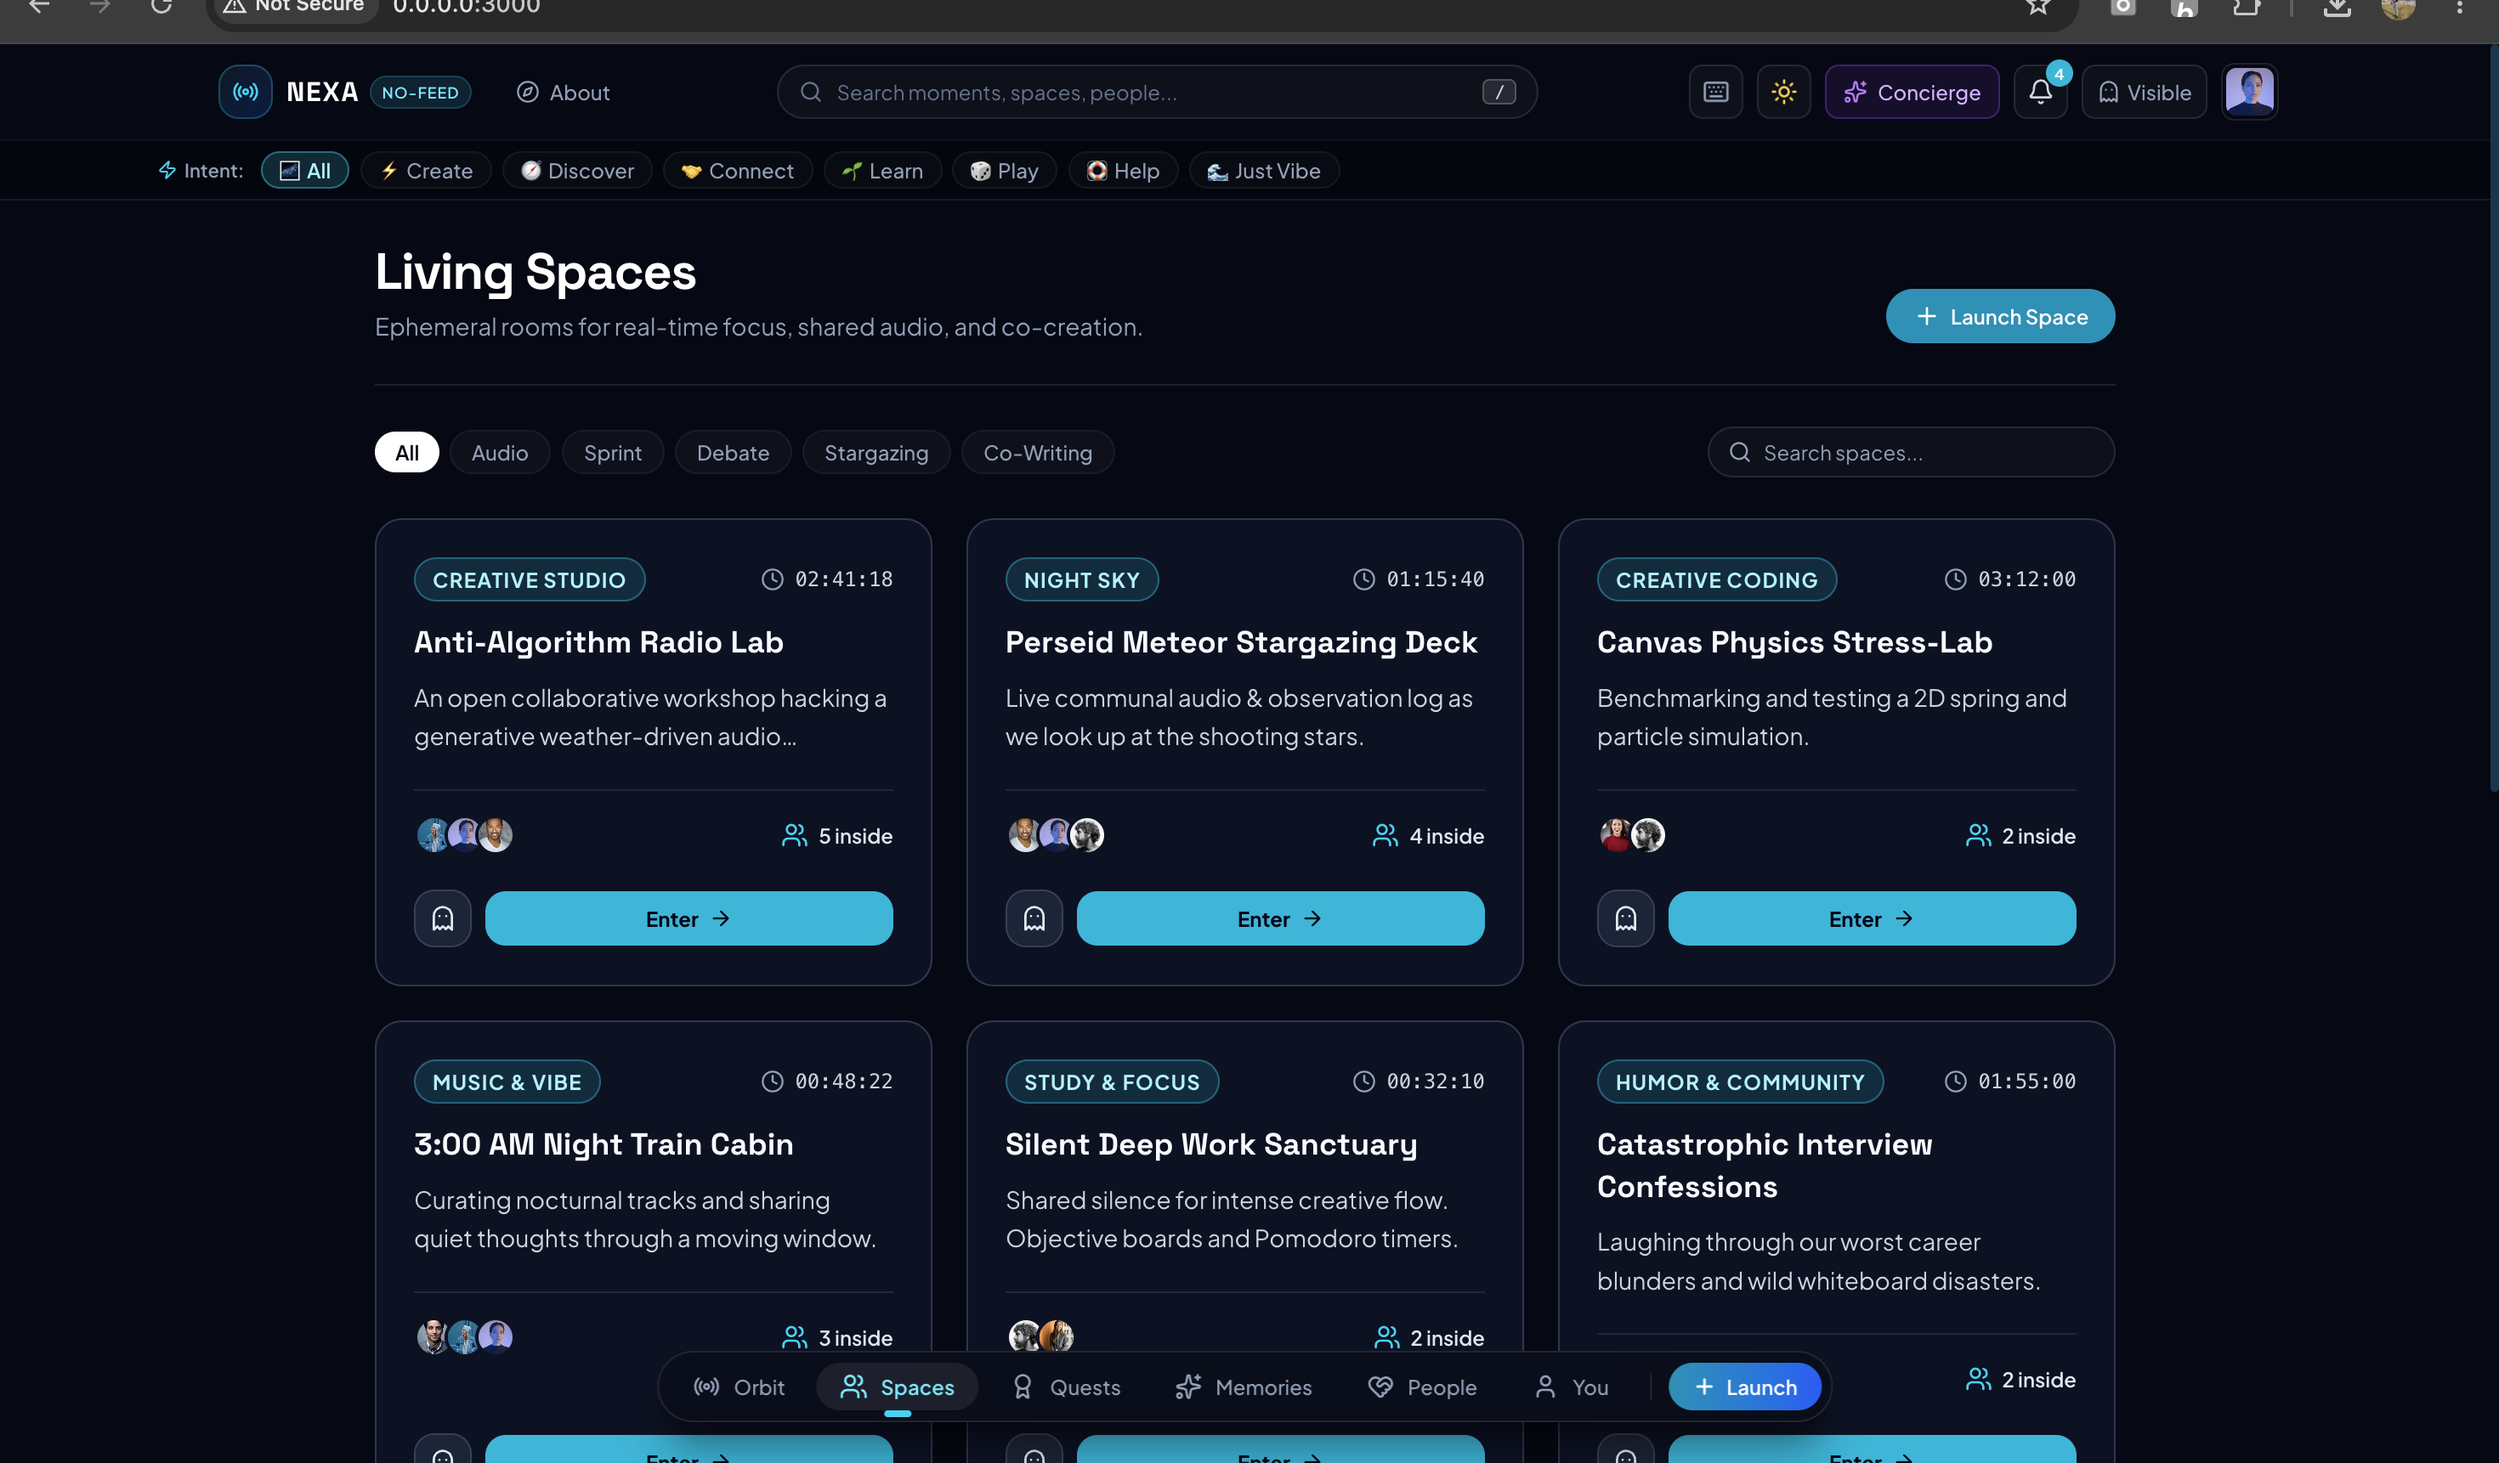
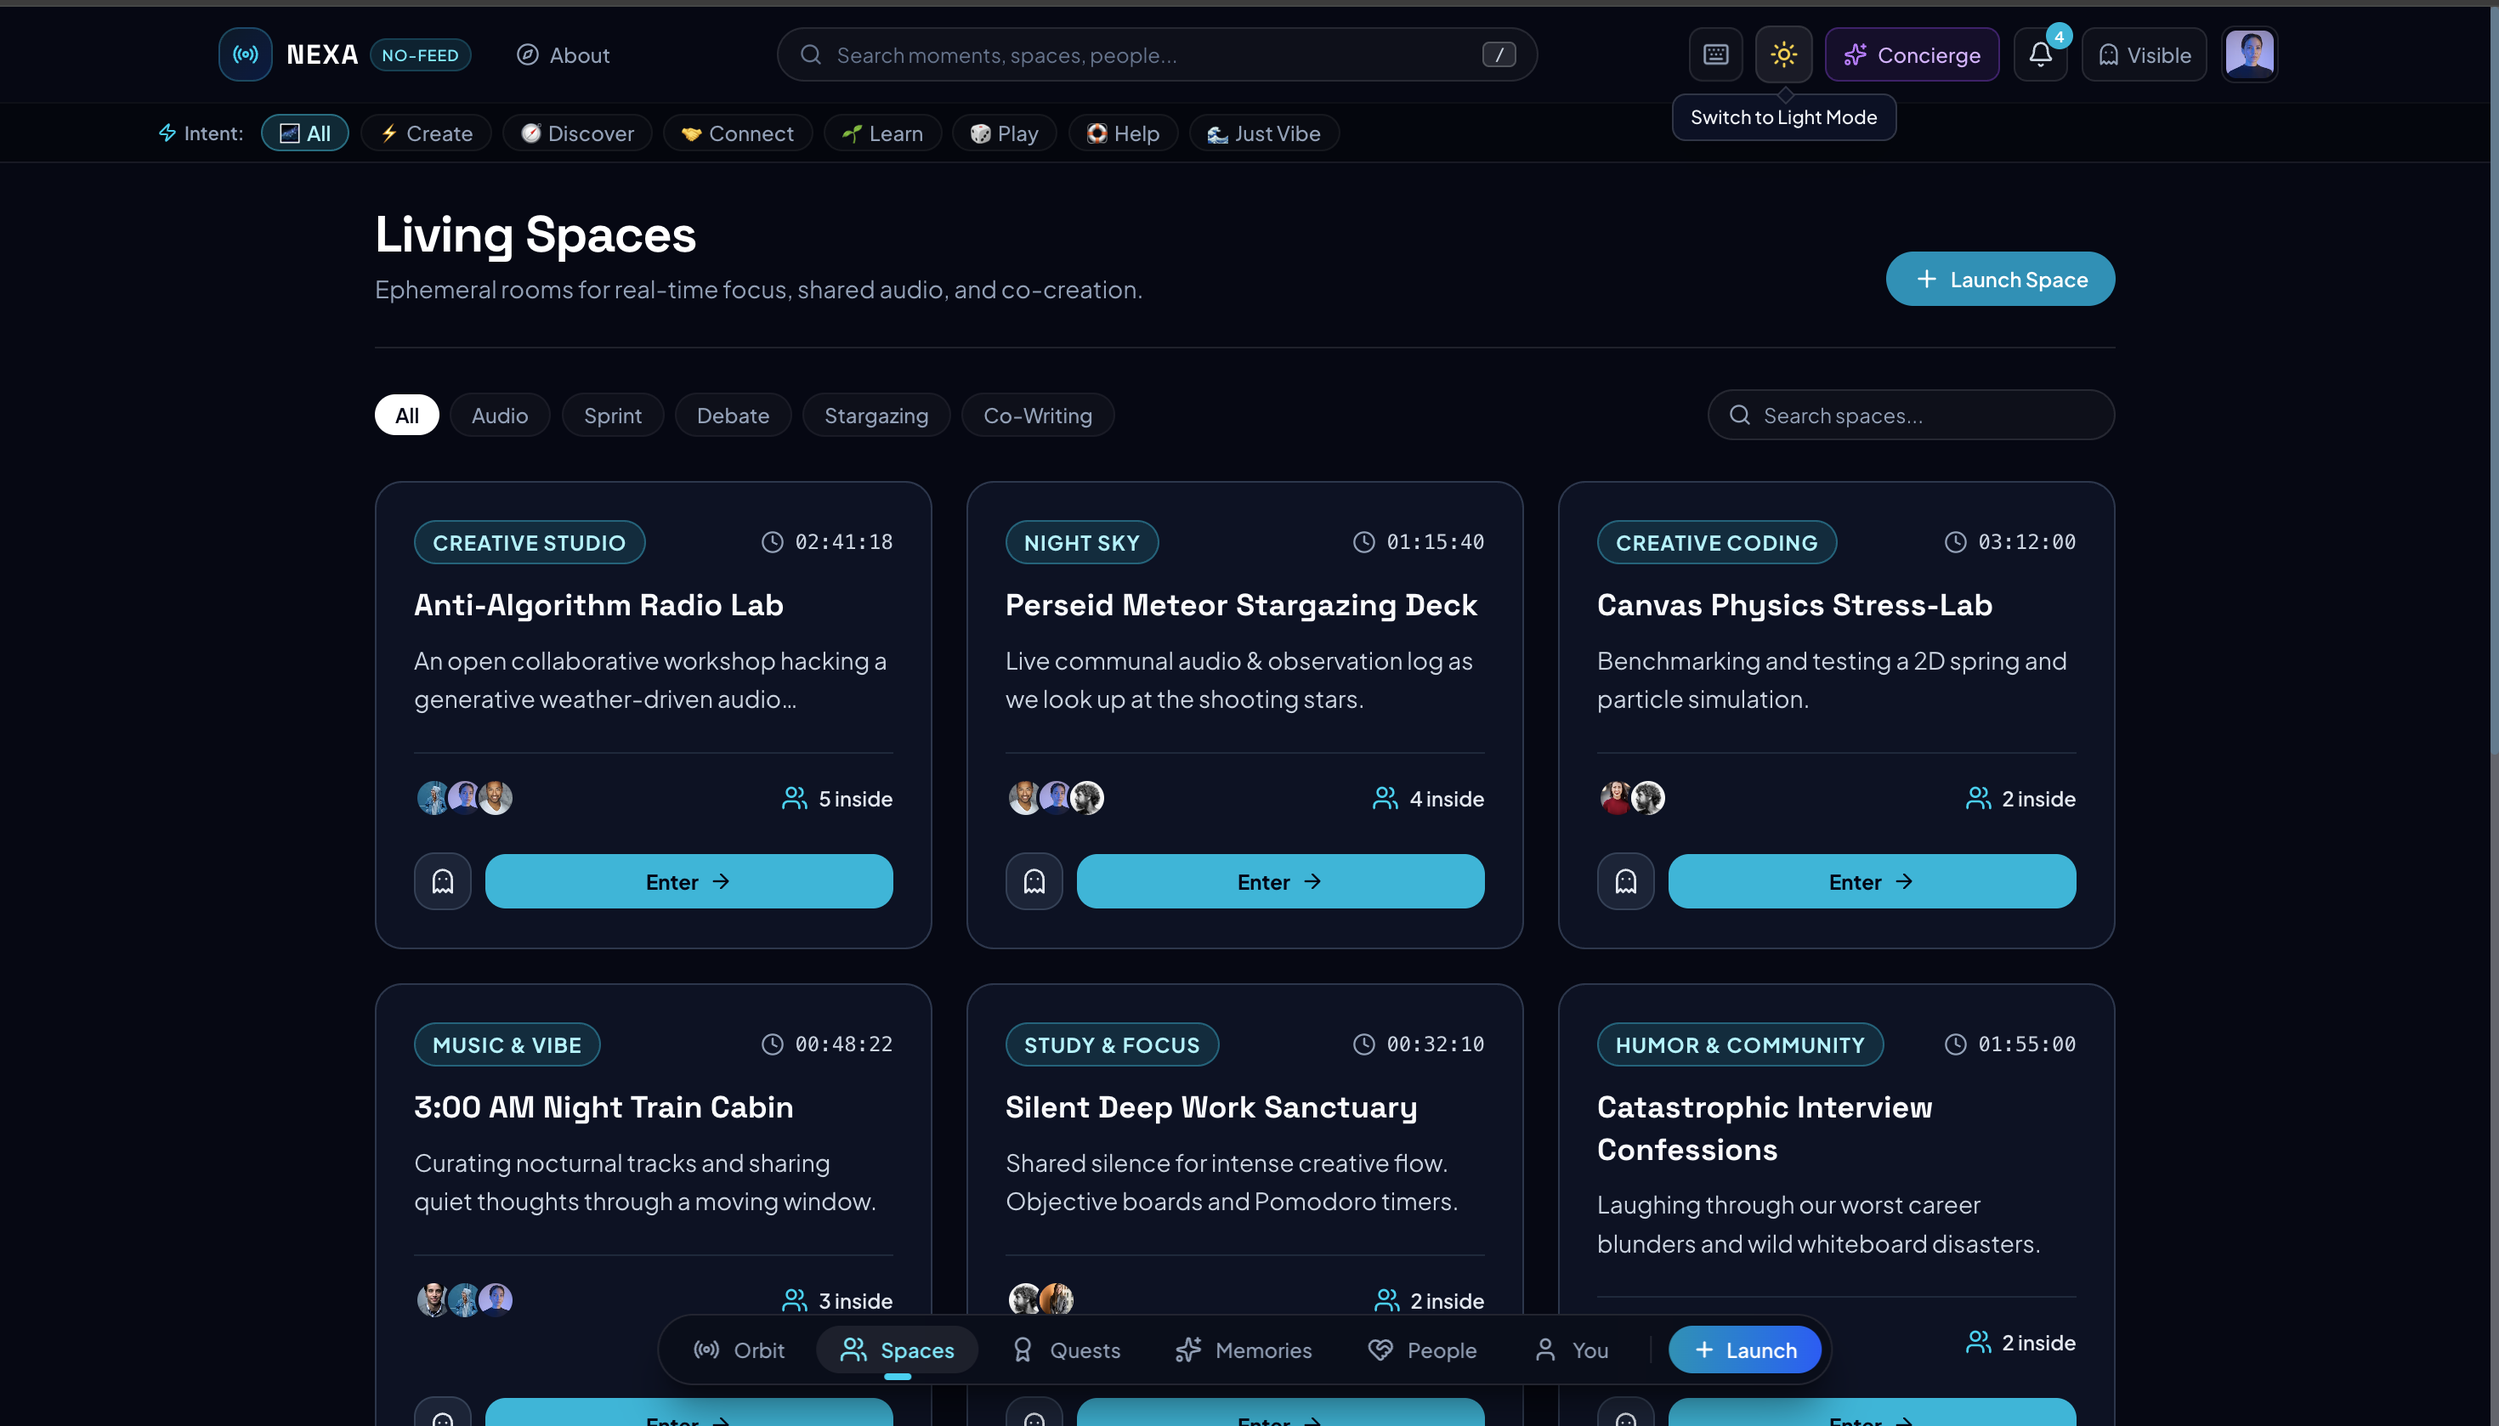
Components

diff --git a/README.md b/README.md
@@ -11,7 +11,7 @@
 <p align="center">
   <a href="YOUR_LIVE_DEMO_URL">🌐 Live Demo</a>
   &nbsp; • &nbsp;
-  <a href="YOUR_GITHUB_REPOSITORY_URL">💻 Source Code</a>
+  <a href="https://github.com/23-shivamsingh/NEXA">💻 Source Code</a>
 </p>
 
 ---
